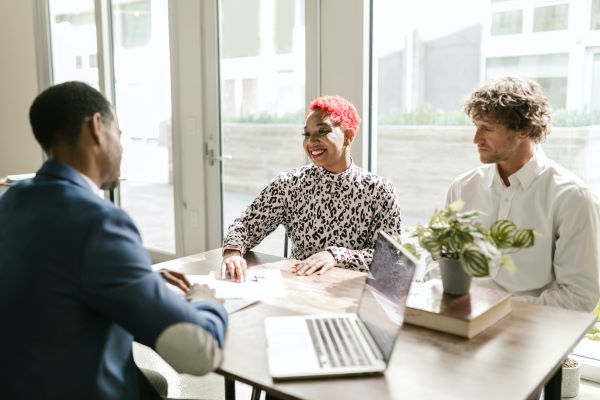
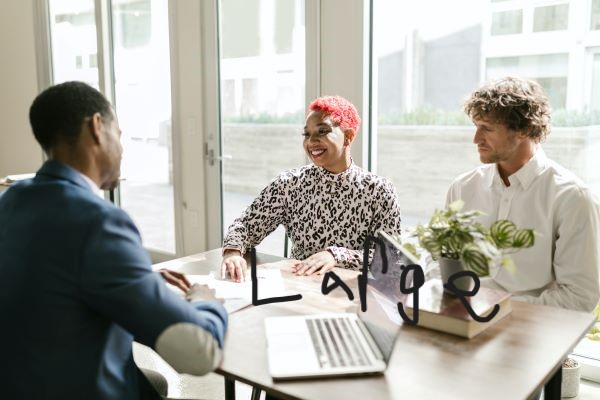
Added Labels to images

Changed region(s): [[0.51, 0.57, 0.84, 0.81], [0.42, 0.63, 0.51, 0.78]]

diff --git a/Chamber/index.html b/Chamber/index.html
@@ -71,10 +71,10 @@
     <span class="date">Time of Day</span>
     <main>
         <div class="hero">
-            <picture>
-                <source srcset="../Chamber/images/wdd230-org-medium.jpg" media="(min-width:500px) and (max-width:799px)">
-                <source srcset="../Chamber/images/wdd230-org-large.jpg" media="(min-width:800px)">
-                <img id="Lexington" src="images/wdd230-org-small.jpg" alt="The center of our village, Lexington" >
+            <picture id="tempPicture">
+                <source id="medumPic" srcset="../Chamber/images/wdd230-org-medium.jpg" media="(min-width:500px) and (max-width:799px)">
+                    <source id="largePic" srcset="../Chamber/images/wdd230-org-large.jpg" media="(min-width:800px)">
+                <img id="Lexington" src="images/wdd230-org-small.jpg" alt="The center of our village, Lexington" >                
             </picture>
         </div>
         <div class="news">This Weeks reports are showing no deaths, two house fires, which have been put out successfully, and no crimes committed. We hope to continue active meetings to ensure that we remain vigilant and alert of our surroundings to prevent furthur fires and injuries.</div>
